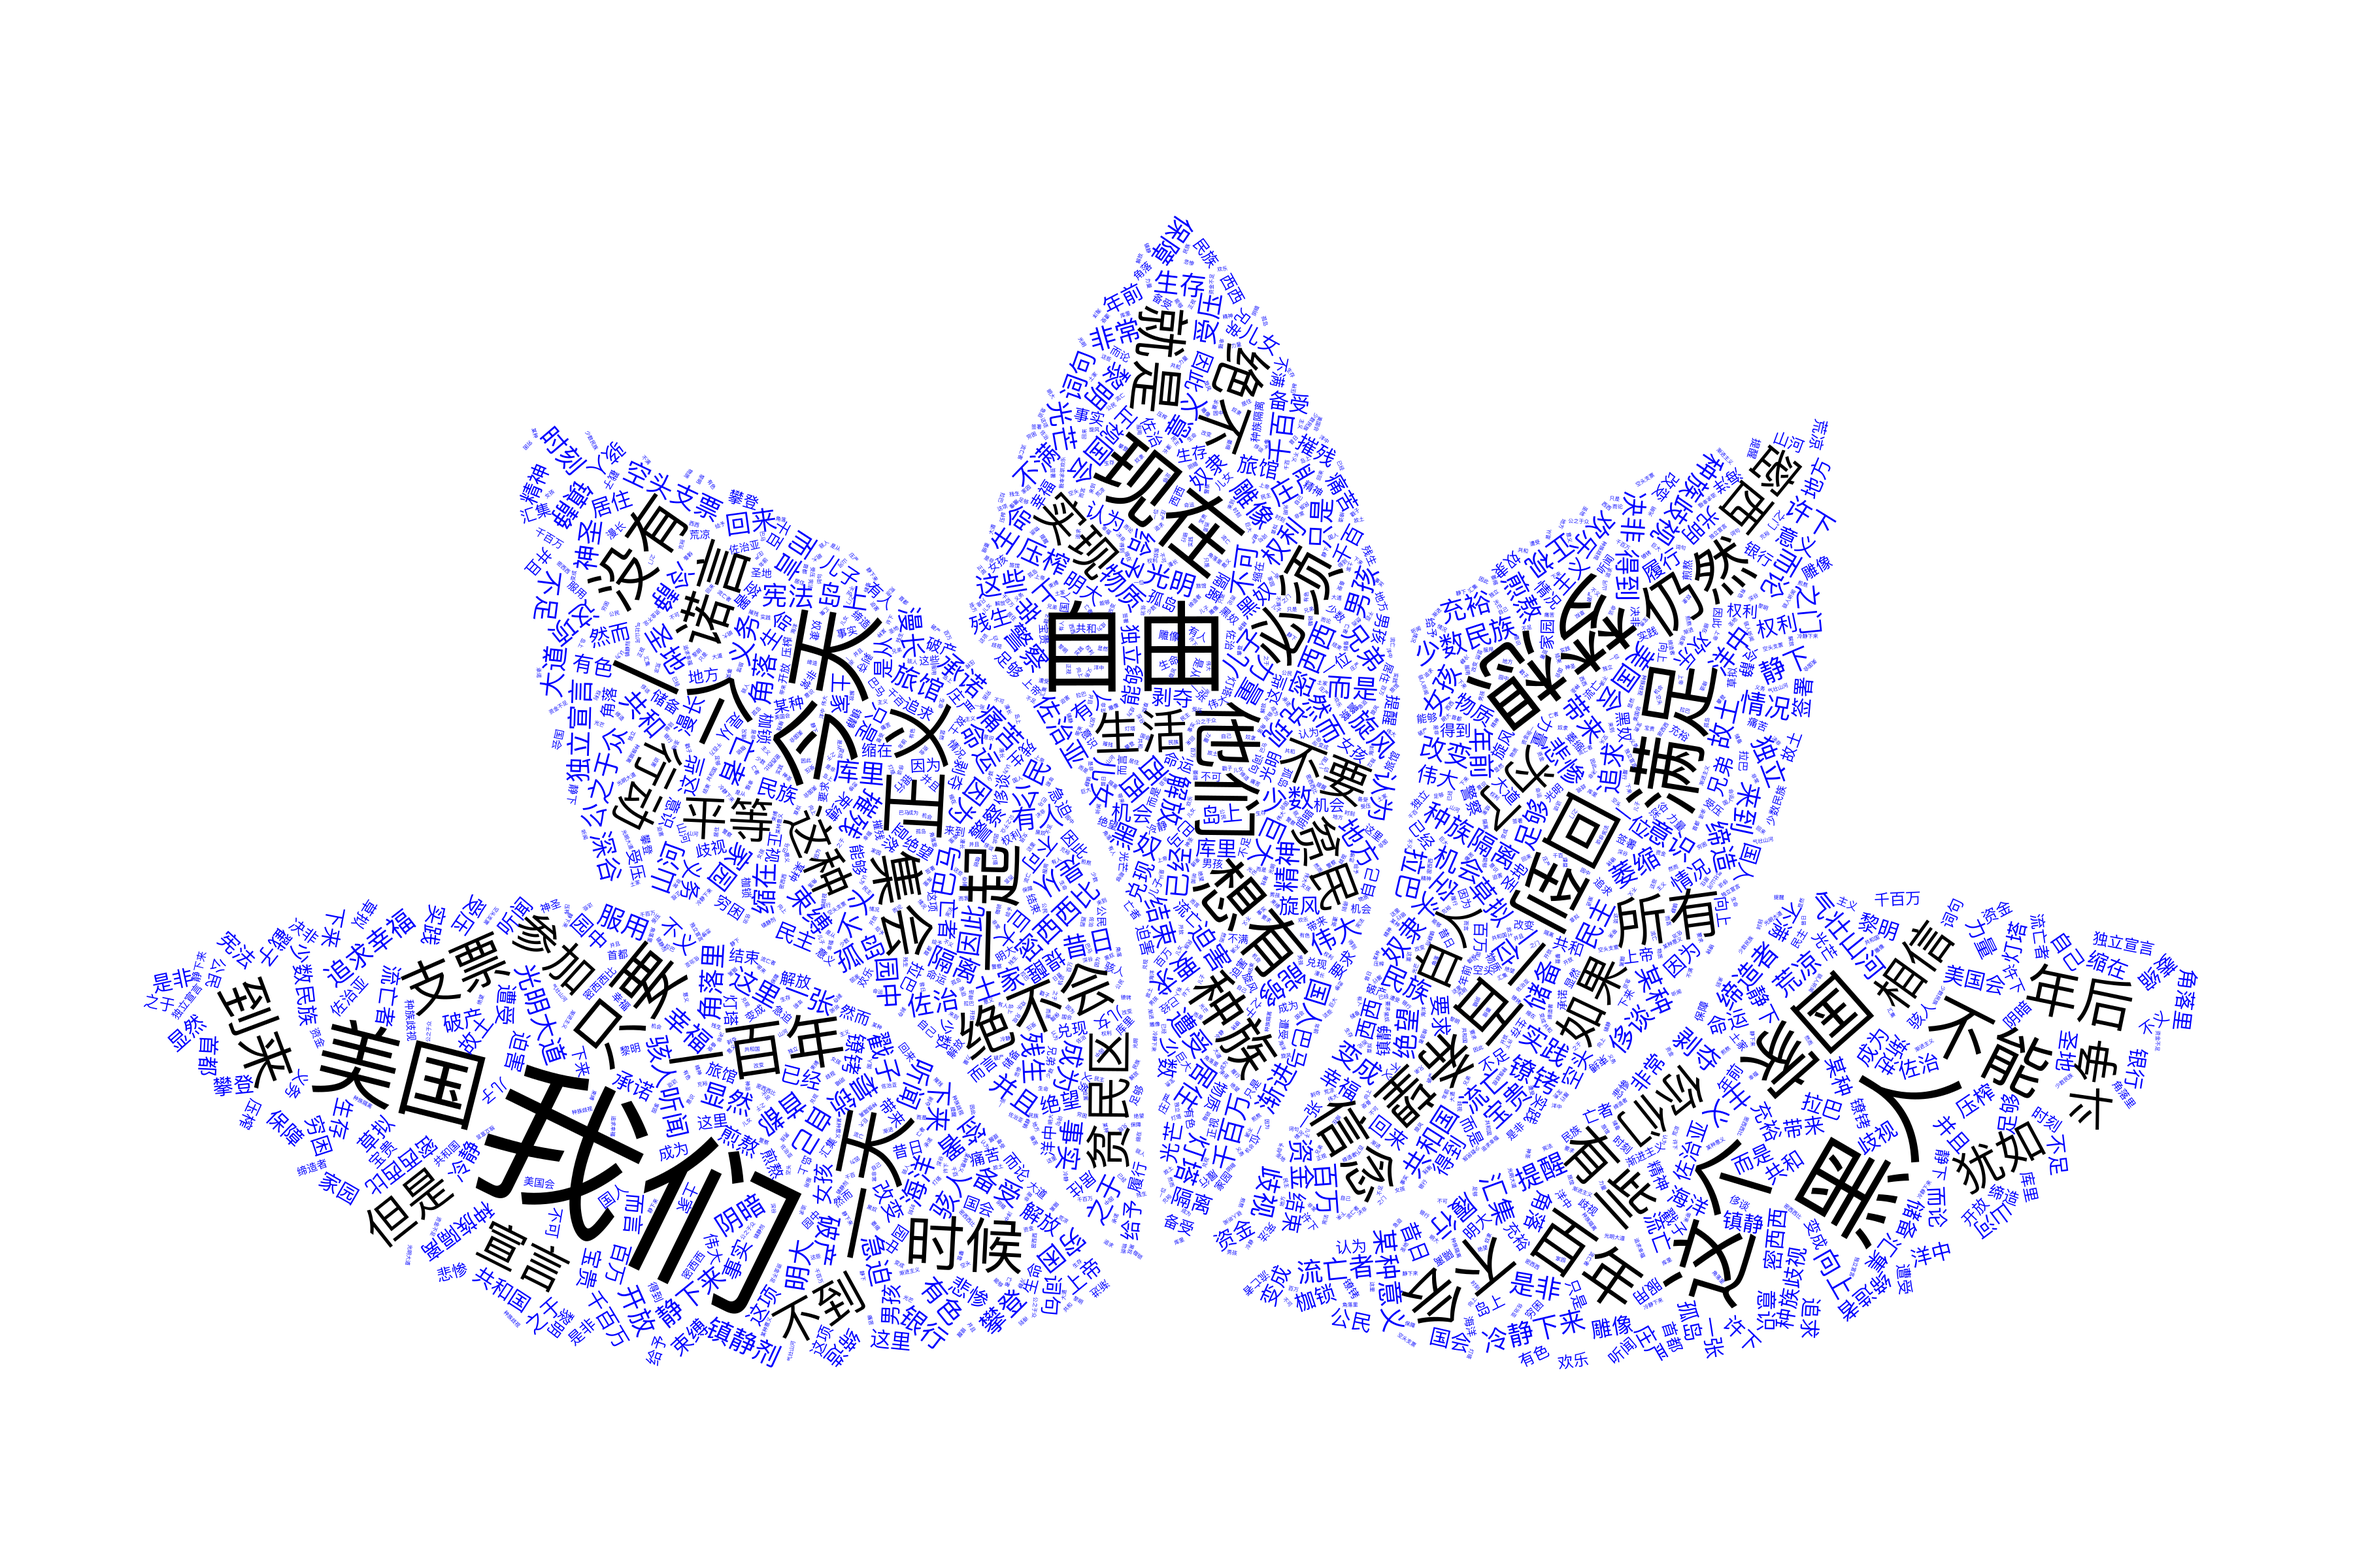
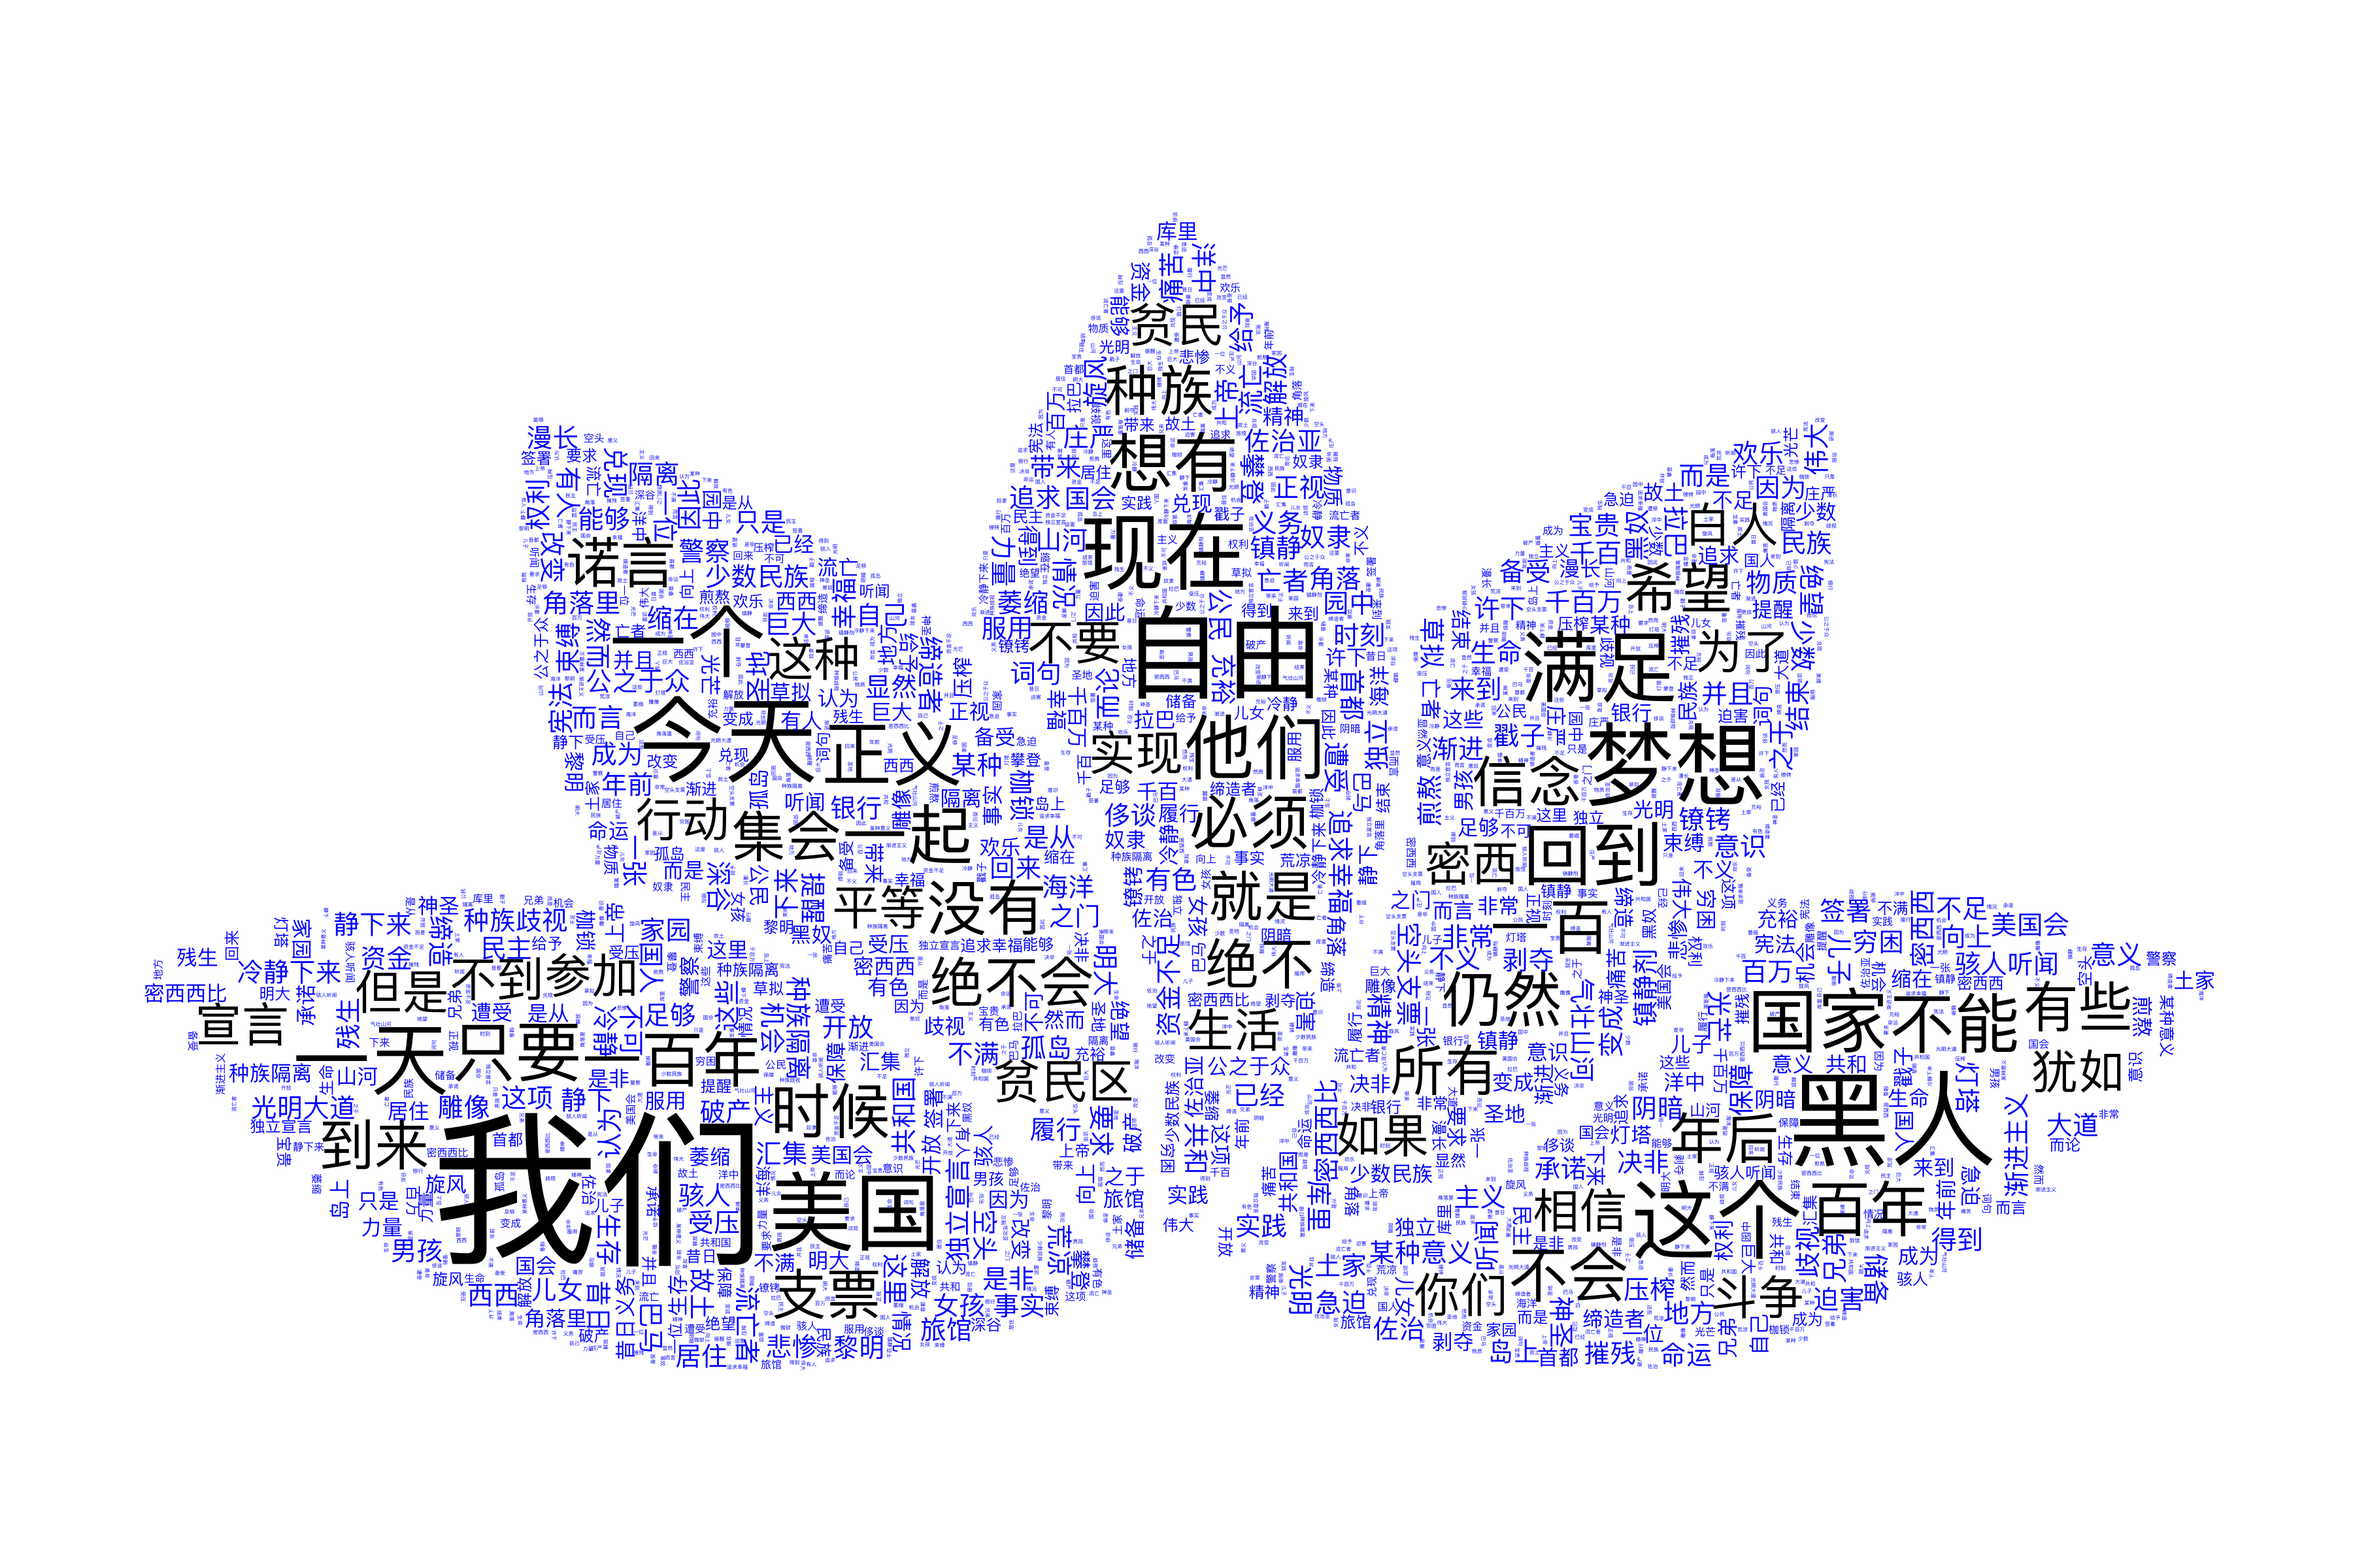
修改了filling spiral的offset，提高filling words 的均匀度

Changed region(s): [[0.0622, 0.125, 0.9333, 0.875]]

diff --git a/src/filling.ts b/src/filling.ts
@@ -195,7 +195,7 @@ function putWord(
   }
 
   function getRandomPosition(): [number[], number] {
-    const offset = 80
+    const offset = 300
     const center = [canvasWidth / 2, canvasHeight / 2]
     const [xMin, xMax] = [center[0] - offset, center[0] + offset]
     const [yMin, yMax] = [center[1] - offset, center[1] + offset]

diff --git a/src/defaults.ts b/src/defaults.ts
@@ -11,7 +11,7 @@ export const defaultOptions: Options = {
   stopwords: true,
   filterNumber: true,
   keywordsNum: 60,
-  angleMode: 2,
+  angleMode: 0,
   language: "cn",
   baseOnAreaOrDisValue: true,
   isMaxMode: false,
